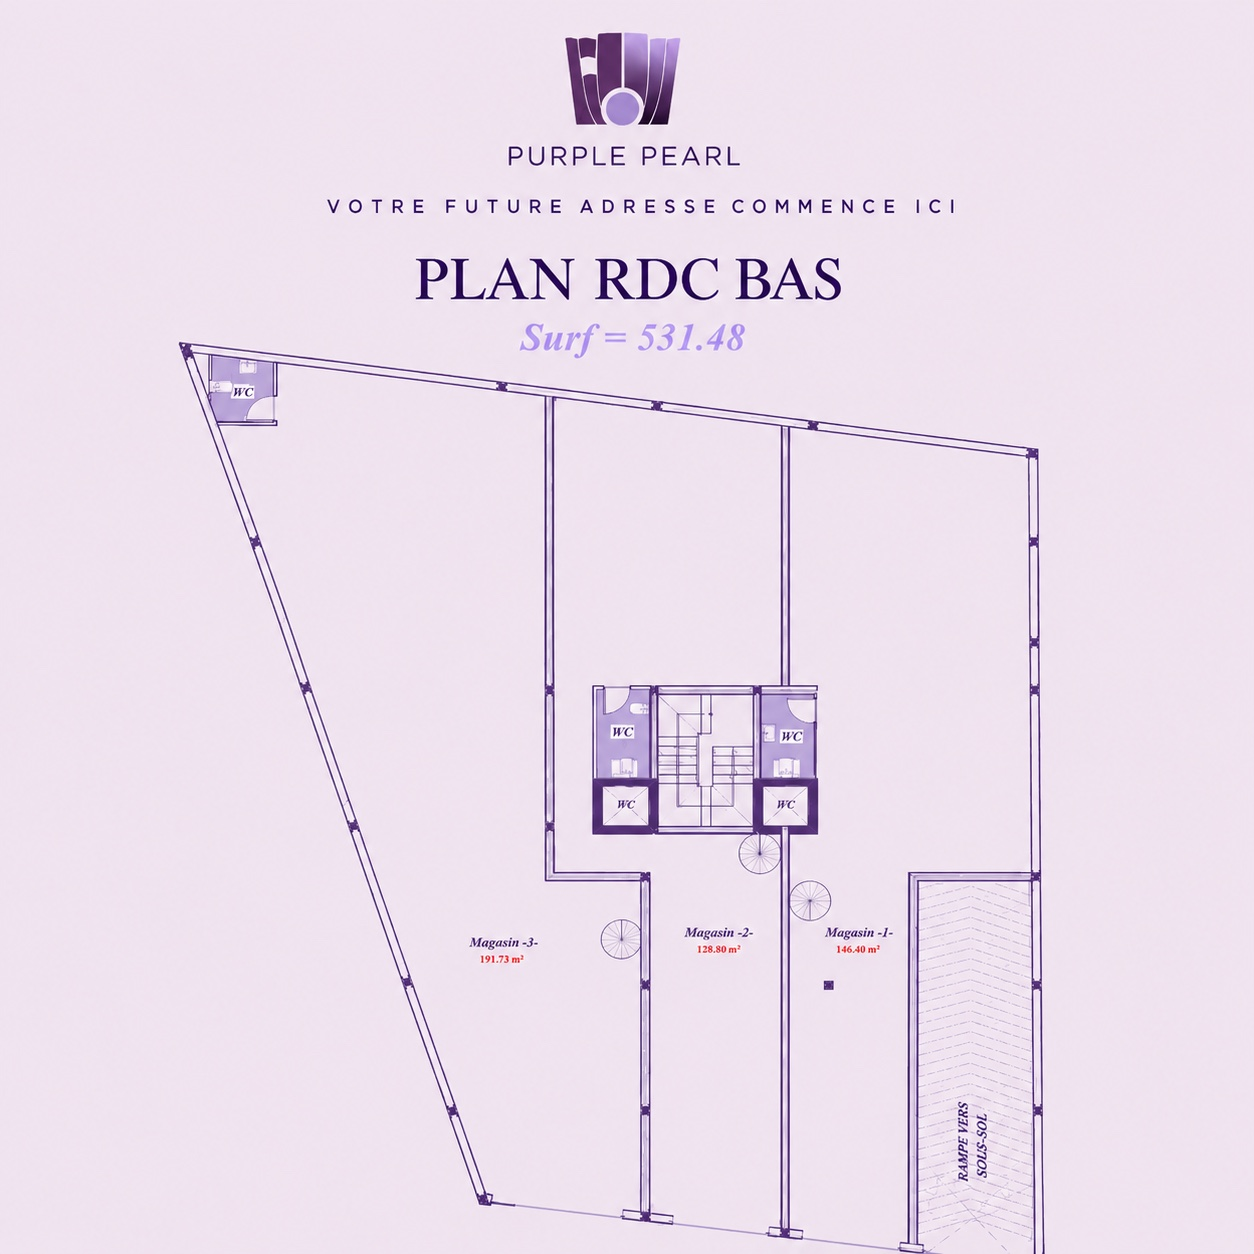
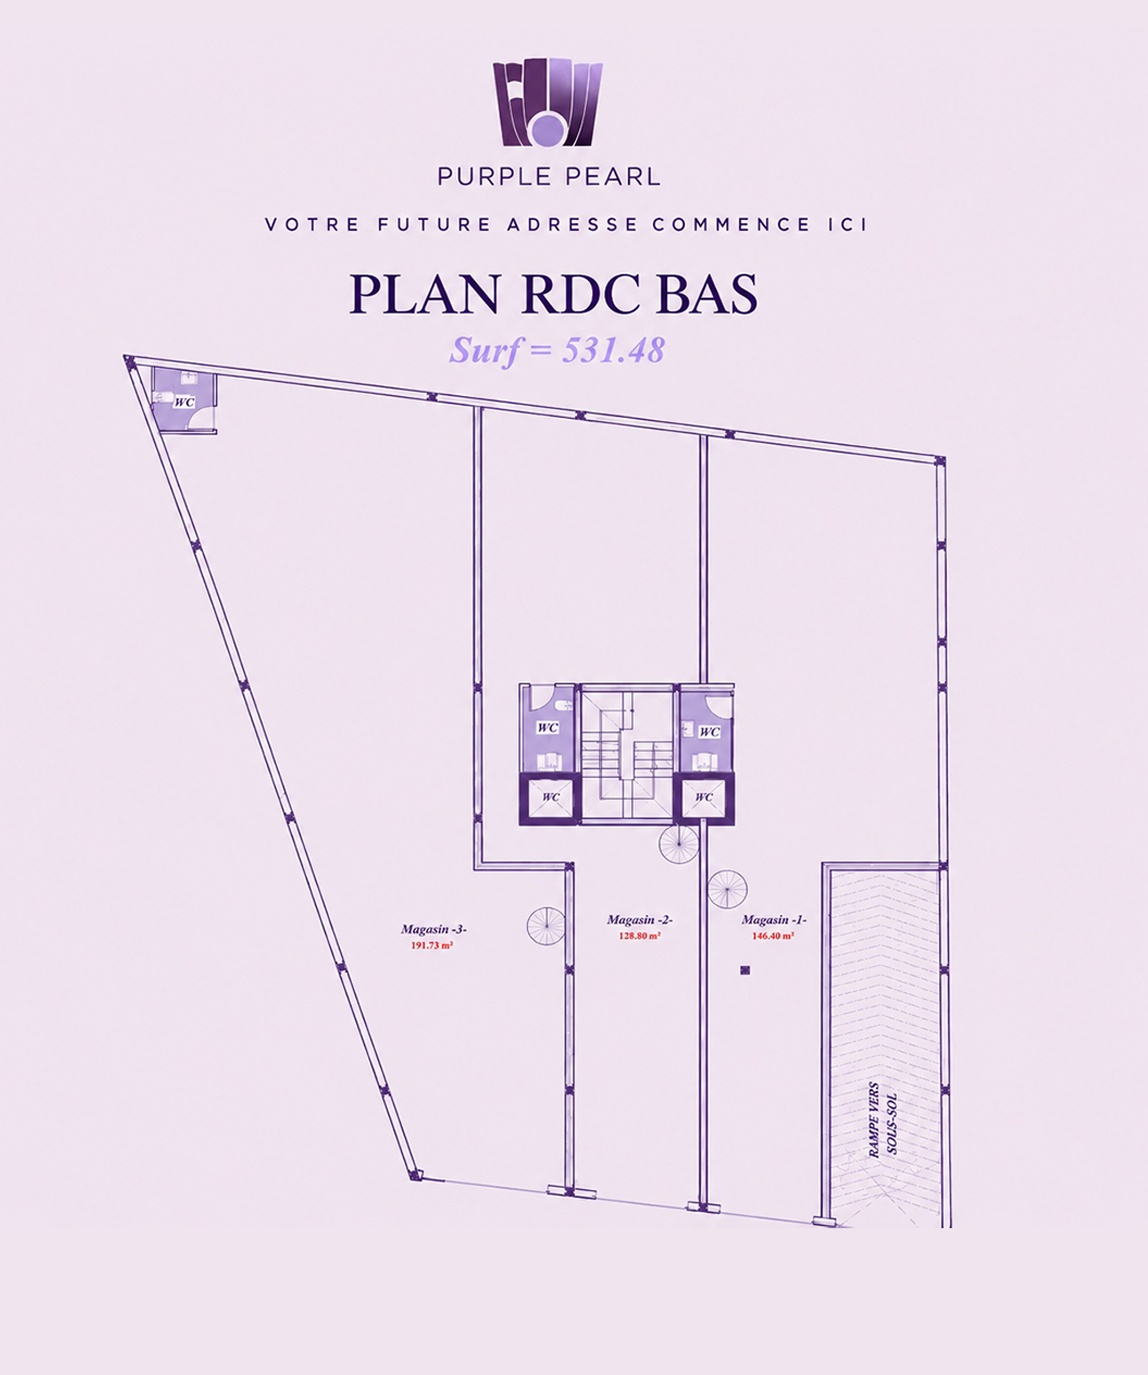
fix(plans): align Purple Pearl images

diff --git a/src/styles/purplePlanStyles.ts b/src/styles/purplePlanStyles.ts
@@ -28,9 +28,32 @@ export const purplePlanStyles = `
   background:#fff;
 }
 .plan-version img{
+  display:block;
   width:100%;
   height:auto;
   background:#fff;
+}
+.plan-version-media{
+  min-width:0;
+  background:#f0e4f0;
+}
+.floor-plan-panel[data-plan-panel="plan-sous-sol"] .plan-version-media,
+.floor-plan-panel[data-plan-panel="plan-rdc-bas-magasins"] .plan-version-media{
+  position:relative;
+  display:grid;
+  place-items:start center;
+  aspect-ratio:574/690;
+  overflow:hidden;
+}
+.floor-plan-panel[data-plan-panel="plan-sous-sol"] .plan-version-media img,
+.floor-plan-panel[data-plan-panel="plan-rdc-bas-magasins"] .plan-version-media img{
+  position:absolute;
+  inset:0;
+  width:100%;
+  height:100%;
+  object-fit:contain;
+  object-position:center top;
+  background:transparent;
 }
 .plan-version--empty{
   display:grid;

diff --git a/src/components/purplePlans.tsx b/src/components/purplePlans.tsx
@@ -50,6 +50,12 @@ export const PurplePlans = ({ plans }: { plans: PurplePearlPlan[] }) => {
 const PlanVersion = ({ title, image, alt, emptyLabel }: { title: string; image: string; alt: string; emptyLabel: string }) => (
 	<div className={`plan-version${image ? '' : ' plan-version--empty'}`}>
 		<span>{title}</span>
-		{image ? <img src={image} alt={alt} loading="lazy" decoding="async" /> : <p>{emptyLabel}</p>}
+		{image ? (
+			<div className="plan-version-media">
+				<img src={image} alt={alt} loading="lazy" decoding="async" />
+			</div>
+		) : (
+			<p>{emptyLabel}</p>
+		)}
 	</div>
 );
